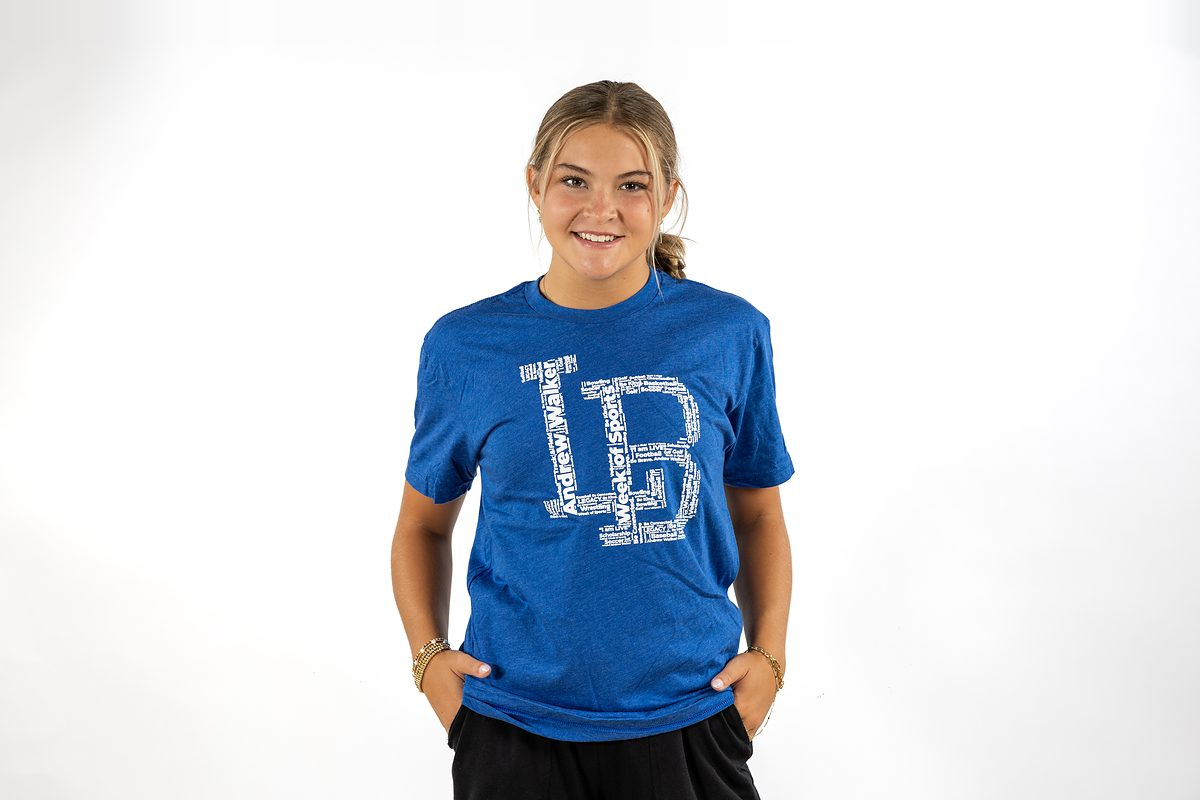
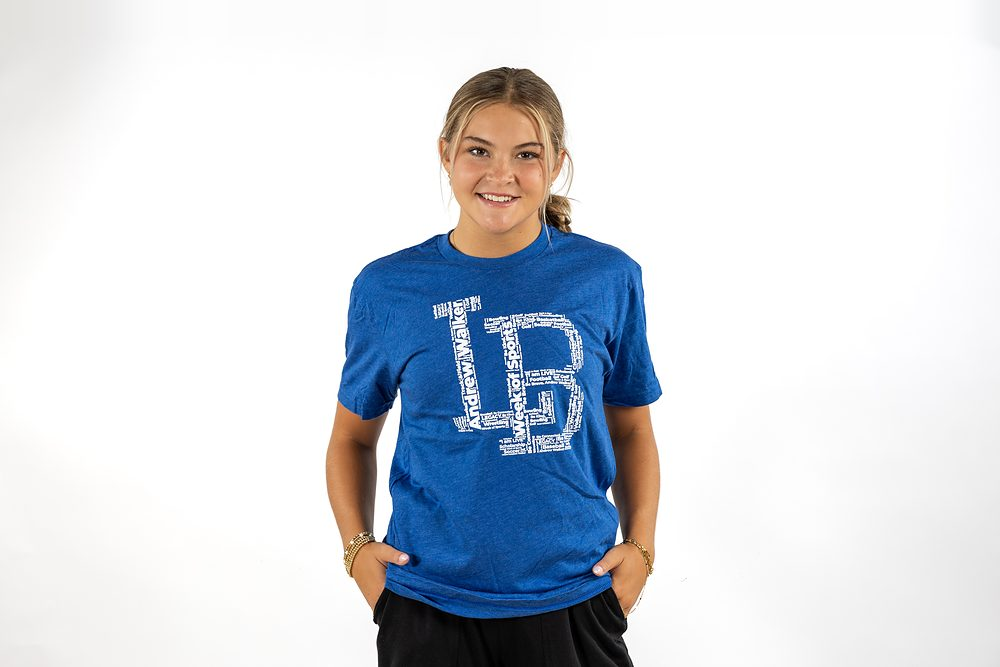
Make the homepage gear popup scroll through the gear photos
The "Grab your gear" popup now slides through six photos instead of one:
one of each item, alternating the two models, ending on the sticker on
the cup (gearOrder.promoPhotos in config.js). They are 1000x667 copies
so they stay sharp at the popup's size; the cup's copy is framed lower
so the popup's wide crop keeps the whole sticker. The dots sit on the
card under the photo, where a blue shirt can't hide them. The homepage
no longer loads gear-photos.js, which only the old popup used.

Changed region(s): [[0.434, 0.4498, 0.589, 0.6897], [0.527, 0.3298, 0.558, 0.3598], [0.341, 0.8096, 0.372, 0.8396]]

diff --git a/index.html b/index.html
@@ -46,7 +46,6 @@ if(window.IntersectionObserver&&!(window.matchMedia&&window.matchMedia('(prefers
 <script src="/assets/pwa.js" defer></script>
 <link rel="stylesheet" href="/assets/site.css">
 <script src="/config.js"></script>
-<script src="/assets/gear-photos.js"></script>
 <script>
   (function(){ var W=window.WOS||{}, c=W.colors||{}, r=document.documentElement.style;
     for(var k in c){ r.setProperty('--'+k, c[k]); }
@@ -293,7 +292,11 @@ if(window.IntersectionObserver&&!(window.matchMedia&&window.matchMedia('(prefers
 <div class="promo" id="gear-promo" hidden>
   <div class="promo-card">
     <button class="promo-x" id="promo-x" aria-label="Close">&times;</button>
-    <img id="promo-img" alt="Week of Sports gear" />
+    <!-- photos come from config.js → gearOrder.promoPhotos and scroll like the gear tiles -->
+    <div class="promo-car" aria-label="Week of Sports gear">
+      <div class="promo-track" id="promo-track"></div>
+    </div>
+    <div class="promo-dots" id="promo-dots" aria-hidden="true"></div>
     <div class="promo-body">
       <div class="eyebrow" style="color:var(--royal);text-align:center">New for 2027</div>
       <h3>Grab your gear</h3>
@@ -786,20 +789,30 @@ if(window.IntersectionObserver&&!(window.matchMedia&&window.matchMedia('(prefers
   (function(){
     var p=S('gear-promo'); if(!p || !C.gearReady) return;
     try{ if(sessionStorage.getItem('wos_gear_promo')) return; }catch(e){}
-    var img=(C.gearOrder && C.gearOrder.shirtPhoto) || C.shirt;
-    if(img) S('promo-img').src=img;
-    /* a T-shirt photo in the gear photo Sheet takes over (it loads before the popup opens) */
-    if(window.WOSGearPhotos && C.gearOrder) WOSGearPhotos.load(C, function(rows){
-      var tee = (C.gearOrder.products||[]).filter(function(p){ return p.key==='tshirt'; })[0];
-      var ph = tee && WOSGearPhotos.photosFor(tee, tee.colors || C.gearOrder.colors, rows)[0];
-      if(!ph) return;
-      var im = S('promo-img');
-      var backups = [ph.alt, img].filter(Boolean);   /* Google's second route, then config's photo */
-      im.onerror = function(){ var next = backups.shift(); if(next) im.src = next; else im.onerror = null; };
-      im.src = ph.src;
-    });
-    setTimeout(function(){ p.hidden=false; requestAnimationFrame(function(){ p.classList.add('open'); }); }, 1600);
-    function done(){ p.classList.remove('open'); setTimeout(function(){ p.hidden=true; }, 260); try{ sessionStorage.setItem('wos_gear_promo','1'); }catch(e){} }
+    /* the photo strip scrolls through gearOrder.promoPhotos, alternating the two models */
+    var G=C.gearOrder||{}, list=(G.promoPhotos||[]).filter(Boolean);
+    if(!list.length && (G.shirtPhoto || C.shirt)) list=[G.shirtPhoto || C.shirt];
+    var track=S('promo-track'), dots=S('promo-dots'), idx=0, timer=null;
+    track.innerHTML=list.map(function(src,i){ return '<img src="'+src+'" alt="'+(i?'':'Week of Sports gear')+'" decoding="async">'; }).join('');
+    function slides(){ return Array.prototype.slice.call(track.children); }
+    function paintDots(){ var n=slides().length; dots.innerHTML = n>1 ? slides().map(function(_,i){ return '<i'+(i===idx?' class="on"':'')+'></i>'; }).join('') : ''; }
+    function show(i){
+      var n=slides().length; if(!n) return;
+      idx=(i%n+n)%n;
+      track.style.transform='translateX(-'+(idx*100)+'%)';
+      Array.prototype.forEach.call(dots.children, function(d,di){ d.classList.toggle('on', di===idx); });
+    }
+    /* a photo that can't load just drops out of the rotation */
+    slides().forEach(function(im){ im.addEventListener('error', function(){
+      if(im.parentNode) im.parentNode.removeChild(im);
+      if(idx>=slides().length) idx=0;
+      paintDots(); show(idx);
+    }); });
+    paintDots();
+    var still = !!(window.matchMedia && window.matchMedia('(prefers-reduced-motion: reduce)').matches);
+    function startScroll(){ if(!still && !timer && slides().length>1) timer=setInterval(function(){ show(idx+1); }, 2600); }
+    setTimeout(function(){ p.hidden=false; requestAnimationFrame(function(){ p.classList.add('open'); startScroll(); }); }, 1600);
+    function done(){ clearInterval(timer); timer=null; p.classList.remove('open'); setTimeout(function(){ p.hidden=true; }, 260); try{ sessionStorage.setItem('wos_gear_promo','1'); }catch(e){} }
     S('promo-x').onclick=done; S('promo-no').onclick=done;
     p.addEventListener('click', function(e){ if(e.target===p) done(); });
     document.addEventListener('keydown', function(e){ if(e.key==='Escape' && !p.hidden) done(); });

diff --git a/config.js b/config.js
@@ -177,12 +177,25 @@ window.WOS = {
     orderingOpen: false,                    /* false = people can BROWSE the gear but can't place an order yet. Set to true to open ordering. */
     orderingClosedMsg: "ordering opens Oct 25. Browse this year's gear until then.",   /* shown after "Preview —", so start it lowercase. Update the date if opening day moves. */
     maxPerType: 0,                          /* max shirts (and, separately, max hoodies) per order; 0 = no limit */
-    shirtPhoto:  "/assets/gear/tshirt-blue-f-popup.jpg",   /* the homepage gear popup's photo (a larger copy of the first T-shirt photo) */
+    /* HOMEPAGE "GRAB YOUR GEAR" POPUP — scrolls through these photos in this order:
+       one of each item, alternating the two models, ending on the sticker on the cup.
+       The -popup copies are 1000×667 so they stay sharp at the popup's larger size.
+       Remove a line to drop a photo; one photo = no scrolling. */
+    promoPhotos: [
+      "/assets/gear/tshirt-blue-f-popup.jpg",
+      "/assets/gear/hoodie-black-m-popup.jpg",
+      "/assets/gear/longsleeve-gray-f-popup.jpg",
+      "/assets/gear/hat-m-popup.jpg",
+      "/assets/gear/beanie-f-popup.jpg",
+      "/assets/gear/sticker-tumbler-popup.jpg"
+    ],
+    shirtPhoto:  "/assets/gear/tshirt-blue-f-popup.jpg",   /* popup photo if promoPhotos above is empty */
     hoodiePhoto: "/assets/product-hoodie.jpg",
     /* GEAR PHOTOS FROM YOUR PHONE — no code needed. Put photos in the Google Drive folder
        "Week of Sports — Gear Photos", then paste each photo's link into the Google Sheet
-       below (it's in that same folder). The gear page and the homepage popup use those
-       photos within a minute. Blank rows keep the photos listed further down in this file.
+       below (it's in that same folder). The gear page uses those photos within a minute
+       (the homepage popup uses promoPhotos above). Blank rows keep the photos listed
+       further down in this file.
        The folder must be shared as "Anyone with the link" for the website to see it. */
     photoSheet: "https://docs.google.com/spreadsheets/d/1Y0tK0BeDAVSQnjR8WhuGItfU7msqOIgiNM-w3pwYhMc/edit",
     colors: [                                 /* default color choices for apparel (any product without its own "colors" list uses these) */

diff --git a/assets/site.css b/assets/site.css
@@ -345,7 +345,16 @@ footer img{height:46px;margin-bottom:14px}
 .promo{position:fixed;inset:0;z-index:120;background:rgba(4,14,28,.6);backdrop-filter:blur(3px);display:none;align-items:center;justify-content:center;padding:20px}
 .promo.open{display:flex;animation:fade .25s ease}
 .promo-card{position:relative;width:min(420px,100%);background:#fff;border-radius:18px;overflow:hidden;box-shadow:0 30px 80px rgba(0,0,0,.45)}
-.promo-card>img{width:100%;height:200px;object-fit:cover;object-position:center 24%;display:block;background:#eef2f8}
+.promo-car{position:relative;width:100%;height:200px;overflow:hidden;background:#eef2f8}
+.promo-track{display:flex;width:100%;height:100%;transition:transform .6s cubic-bezier(.22,.61,.36,1)}
+.promo-track img{flex:0 0 100%;width:100%;height:100%;object-fit:cover;object-position:center 24%;display:block}
+/* dots sit on the white card under the photo, so they read over any photo (a blue shirt hid them) */
+.promo-dots{display:flex;justify-content:center;gap:6px;padding-top:13px}
+.promo-dots:empty{display:none}
+.promo-dots:not(:empty) + .promo-body{padding-top:10px}
+.promo-dots i{width:7px;height:7px;border-radius:50%;background:#d3dceb;transition:background .3s}
+.promo-dots i.on{background:var(--royal)}
+@media (prefers-reduced-motion:reduce){.promo-track{transition:none}}
 .promo-body{padding:22px 24px 26px;text-align:center}
 .promo-body h3{font-family:'Anton',Impact,system-ui,sans-serif;text-transform:uppercase;font-size:30px;color:var(--navy);margin:6px 0 8px}
 .promo-body p{color:#52617a;font-size:15px;line-height:1.55;margin-bottom:18px}
